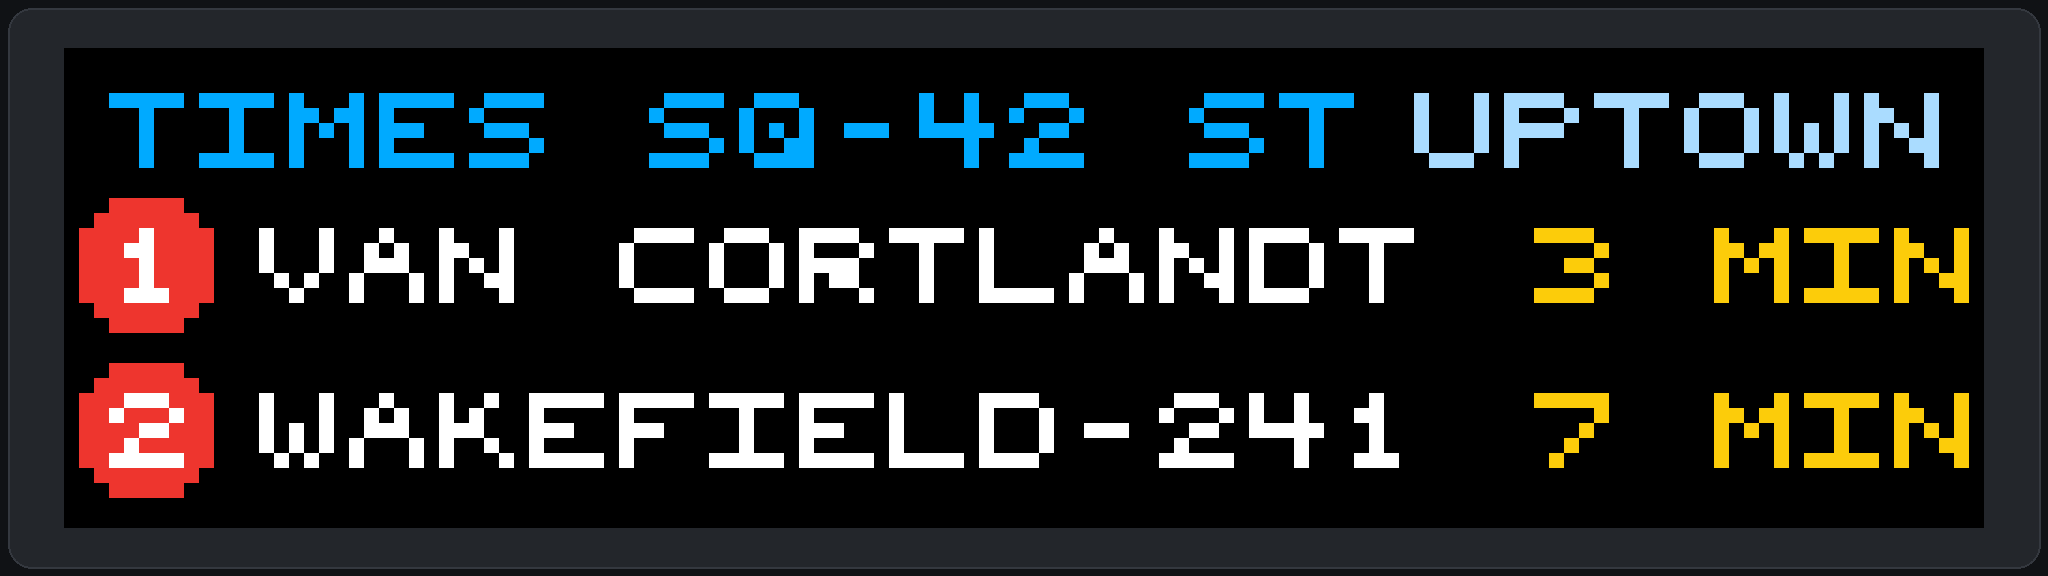
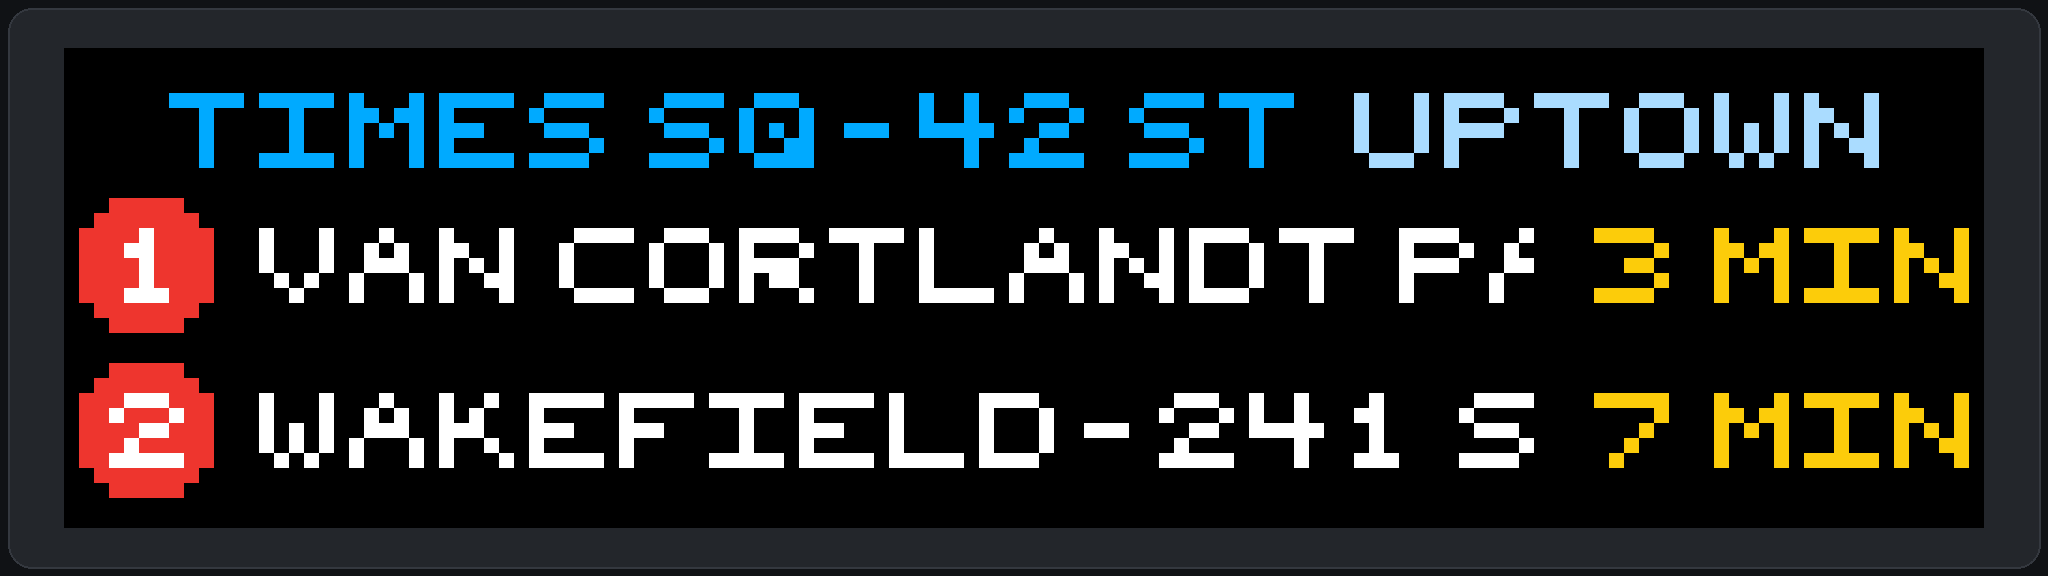
Tighten Pixel Five word spacing

diff --git a/src/mta_board/render.py b/src/mta_board/render.py
@@ -112,11 +112,19 @@ GLYPHS: dict[str, tuple[str, ...]] = {
     "Z": ("11111", "00010", "00100", "01000", "11111"),
 }
 
+
+def _glyph_advance(character: str) -> int:
+    # A full monospaced space creates a six-pixel hole on this tiny display.
+    # Two pixels of advance plus the previous glyph's trailing column produces
+    # a more readable three-pixel gap between words.
+    return 2 if character == " " else 6
+
+
 def _text_width(text: str) -> int:
     if not text:
         return 0
-    glyphs = [GLYPHS.get(character, GLYPHS[" "]) for character in text.upper()]
-    return sum(len(glyph[0]) + 1 for glyph in glyphs[:-1]) + len(glyphs[-1][0])
+    text = text.upper()
+    return sum(_glyph_advance(character) for character in text[:-1]) + 5
 
 
 def _fit_text(text: str, width: int) -> str:
@@ -144,7 +152,7 @@ def _draw_text(
             for column_index, pixel in enumerate(row):
                 if pixel == "1":
                     draw.point((glyph_x + column_index, start_y + row_index), fill=fill)
-        glyph_x += len(glyph[0]) + 1
+        glyph_x += _glyph_advance(character)
 
 
 def _scroll_offset(

diff --git a/tests/test_render.py b/tests/test_render.py
@@ -52,6 +52,10 @@ class RenderTests(unittest.TestCase):
         self.assertEqual(_text_width(" "), 5)
         self.assertEqual(_text_width("..."), 17)
 
+    def test_words_have_three_blank_columns_between_them(self) -> None:
+        self.assertEqual(_text_width("AA"), 11)
+        self.assertEqual(_text_width("A A"), 13)
+
     def test_long_text_scrolls_and_toggle_can_freeze_it(self) -> None:
         now = datetime(2026, 9, 7, 16, 0, tzinfo=timezone.utc)
         state = BoardState(
